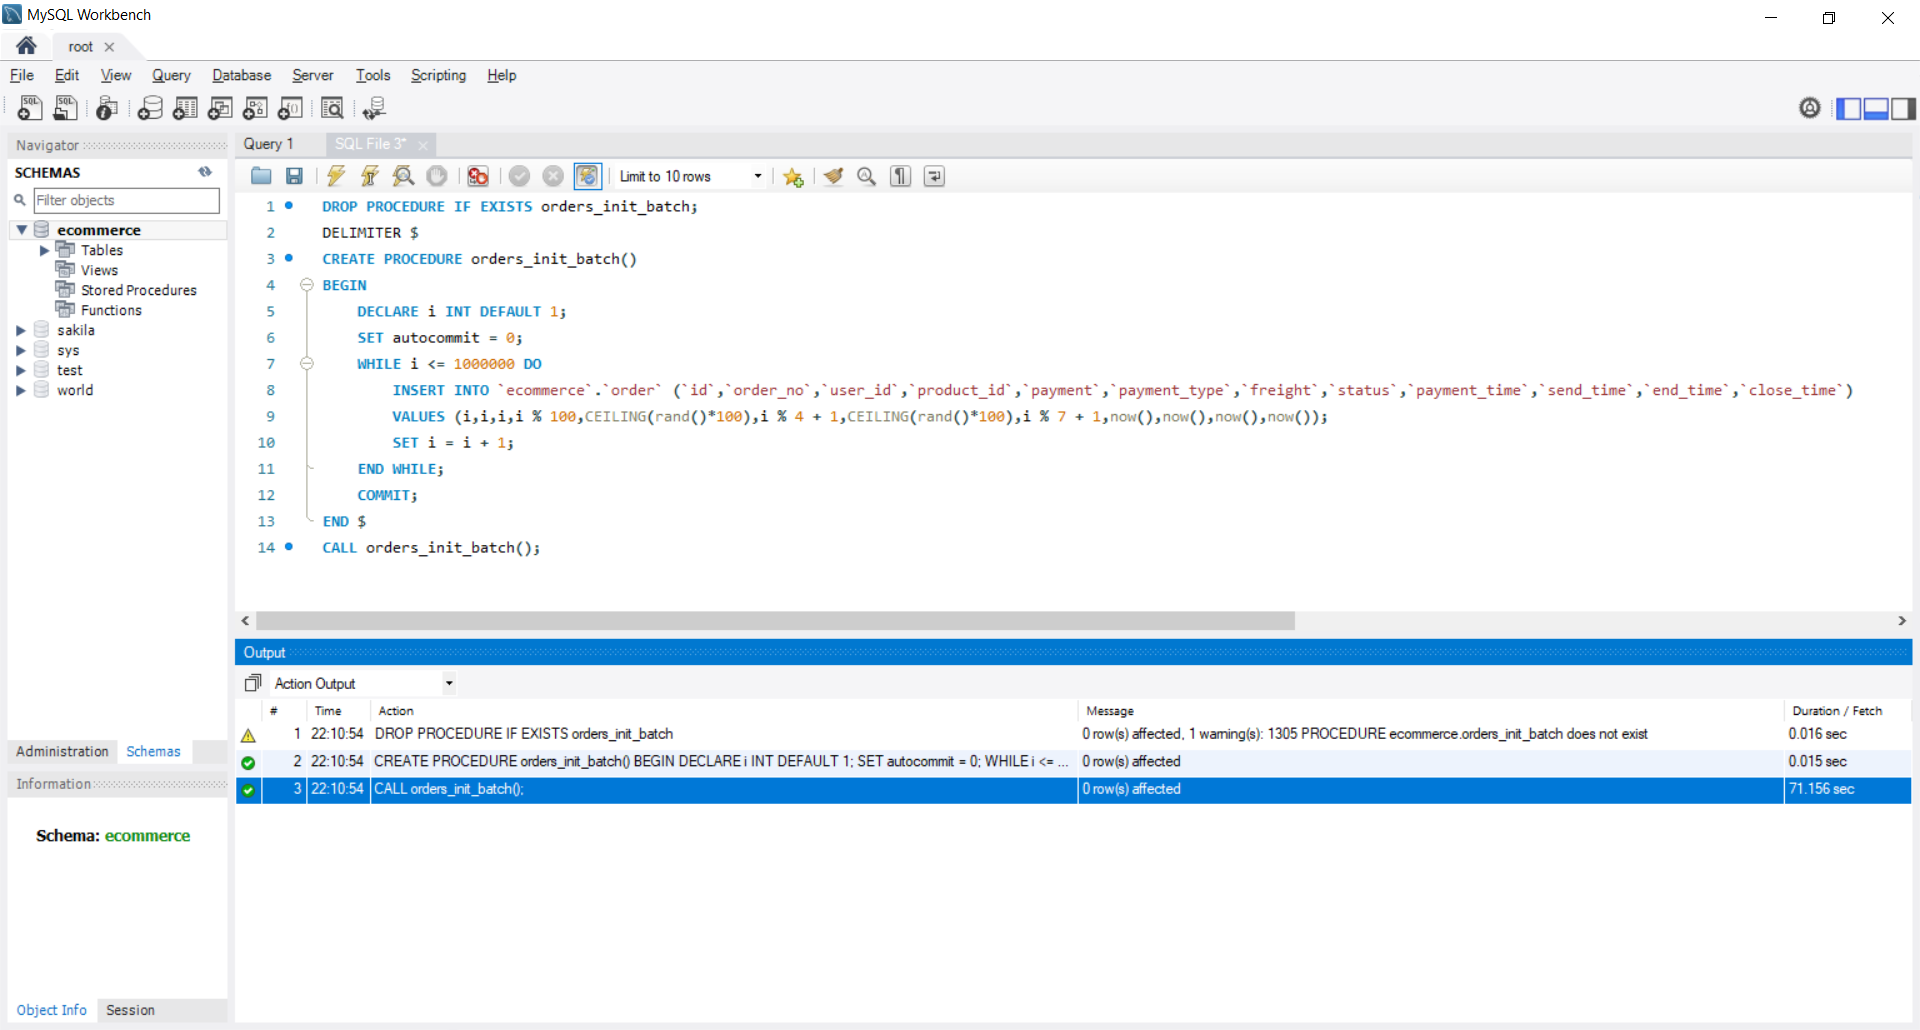
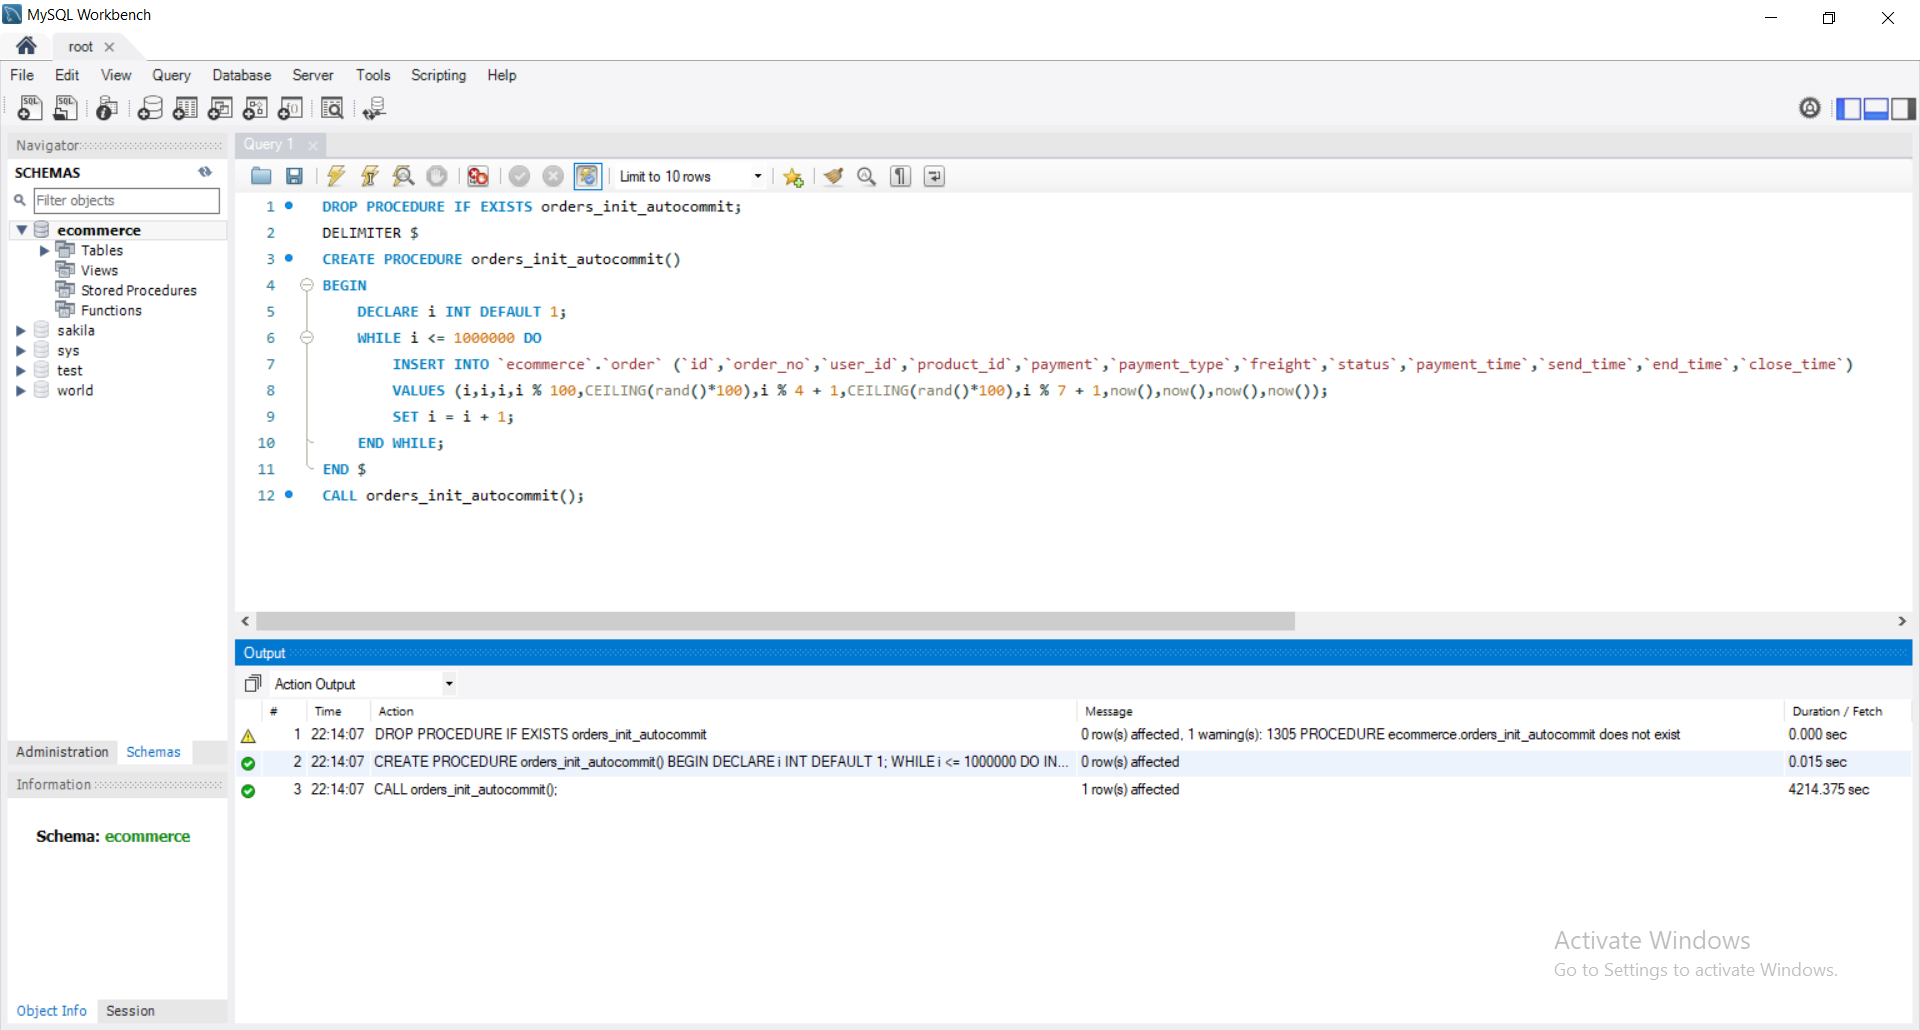
update note and picture

diff --git a/Week_07/index.md b/Week_07/index.md
@@ -29,9 +29,9 @@ END $
 CALL orders_init_batch();
 ```
 
-运行时间：71.156 sec
+运行时间：71.156 sec，即1.19 min。
 
-![Batch Mode](images/batch.png)
+![Batch Mode](C:/Data/Code/GitHub/JAVA-000/Week_07/images/batch.png)
 
 
 
@@ -52,9 +52,9 @@ END $
 CALL orders_init_autocommit();
 ```
 
-运行时间：
+运行时间：4214.375 sec， 即70.24 min。
 
-![Auto Commit Mode](images/autocommit.png)
+![Auto Commit Mode](C:/Data/Code/GitHub/JAVA-000/Week_07/images/autocommit.png)
 
 
 

diff --git a/Week_07/README.md b/Week_07/README.md
@@ -29,7 +29,7 @@ END $
 CALL orders_init_batch();
 ```
 
-运行时间：71.156 sec
+运行时间：71.156 sec，即1.19 min。
 
 ![Batch Mode](C:/Data/Code/GitHub/JAVA-000/Week_07/images/batch.png)
 
@@ -52,7 +52,7 @@ END $
 CALL orders_init_autocommit();
 ```
 
-运行时间：
+运行时间：4214.375 sec， 即70.24 min。
 
 ![Auto Commit Mode](C:/Data/Code/GitHub/JAVA-000/Week_07/images/autocommit.png)
 
